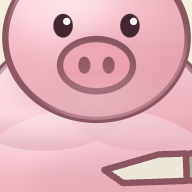
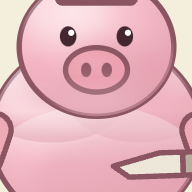
Draw held objects over every costume layer, and make the pistol a pistol
Held was drawn between the arms and the costume, so a lapel, a collar or
the ninja's scabbard crossed in front of whatever was being carried — it
read as neither worn nor held. It's now the last thing drawn. Nothing
crops it any more, which is why everything in Held already sits below
the chin.

The grip was 14 along the arm from its pivot, which is the forearm; the
hand is at 17, on the trotter's centre line rather than its inner edge.
Every object moves with it, so they're all carried in the hand now.

The pistol was a dark oblong with a lump on it. Side-on it has a slide,
a raked grip, a trigger guard and a front sight, all readable at once,
which is the only angle at which it looks like what it is. The torch and
the fishing rod are shortened to stay clear of the chin now that the
head no longer covers them.

The app icon is pulled back further again.

diff --git a/frontend/components/pigs/Held.tsx b/frontend/components/pigs/Held.tsx
@@ -39,9 +39,13 @@ export default function Held({ item, armX }: { item: string; armX: number }) {
 
   // The hand. Same constants as the arm rotation in PigAvatar, so the grip
   // follows the trotter across the whole ladder.
+  // The arm is a rounded 13x24 rect pivoting at (65 + armX - 2.5, 77), so the
+  // hand — its far end — is 17 along from the pivot, swung out by the splay.
+  // Anchoring an object anywhere shorter than that leaves it gripped by the
+  // forearm.
   const splay = (Math.max(0, (armX - 20) * 0.9) * Math.PI) / 180;
-  const gx = 65 + armX - 7 + 14 * Math.sin(splay);
-  const gy = 77 + 14 * Math.cos(splay);
+  const gx = 65 + armX - 4 + 17 * Math.sin(splay);
+  const gy = 77 + 17 * Math.cos(splay);
   // In over the belly — where an upright object has to stand to be seen.
   const ix = gx - 13;
 
@@ -86,14 +90,20 @@ export default function Held({ item, armX }: { item: string; armX: number }) {
 
     case "pistol":
       return (
-        <g {...s} transform={`rotate(-58 ${gx} ${gy})`}>
-          <rect x={gx - 4} y={gy - 26} width="9" height="21" rx="2" fill={STEEL} />
+        // Side-on and level. Pointed up it's a dark oblong with a lump on it;
+        // it only reads as a pistol from the side, where the slide, the guard
+        // and the raked grip are all visible at once.
+        <g {...s} transform={`rotate(-7 ${gx} ${gy})`}>
+          <rect x={gx - 27} y={gy - 15} width="35" height="10" rx="2" fill={INK} />
+          <rect x={gx - 25} y={gy - 18} width="3.5" height="3.5" fill={INK} />
+          <path d={`M ${gx + 6} ${gy - 15} l 5 -4 l 0 4 Z`} fill={INK} />
+          <rect x={gx - 13} y={gy - 6} width="21" height="5" rx="1.5" fill={INK} />
           <path
-            d={`M ${gx - 4.5} ${gy - 7} L ${gx + 5} ${gy - 7} L ${gx + 2.5} ${gy + 10} L ${gx - 6.5} ${gy + 10} Z`}
+            d={`M ${gx - 2} ${gy - 5} L ${gx + 8} ${gy - 5} L ${gx + 5} ${gy + 15} L ${gx - 6} ${gy + 15} Z`}
             fill={INK}
           />
-          {/* Trigger guard — without it the whole thing reads as a spanner. */}
-          <path d={`M ${gx - 4.5} ${gy - 5} q -5 5 0 8 h 5`} fill="none" />
+          <path d={`M ${gx - 3} ${gy - 1} q -6 5 -0.5 9 h 4.5`} fill="none" />
+          <circle cx={gx - 25.5} cy={gy - 10} r="1.7" fill={STEEL} stroke="none" />
         </g>
       );
 
@@ -237,20 +247,20 @@ export default function Held({ item, armX }: { item: string; armX: number }) {
 
     case "torch":
       return (
-        <g {...s} transform={`rotate(-26 ${gx} ${gy})`}>
-          <rect x={gx - 3.5} y={gy - 6} width="8" height="22" rx="2" fill={INK} />
-          <path d={`M ${gx - 8} ${gy - 6} L ${gx + 9} ${gy - 6} L ${gx + 0.5} ${gy - 26} Z`} fill={LEMON} />
-          <path d={`M ${gx - 3} ${gy - 8} L ${gx + 4} ${gy - 8} L ${gx + 0.5} ${gy - 18} Z`} fill={GOLD} stroke="none" />
+        <g {...s} transform={`rotate(-34 ${gx} ${gy})`}>
+          <rect x={gx - 3.5} y={gy - 2} width="8" height="22" rx="2" fill={INK} />
+          <path d={`M ${gx - 8} ${gy - 2} L ${gx + 9} ${gy - 2} L ${gx + 0.5} ${gy - 21} Z`} fill={LEMON} />
+          <path d={`M ${gx - 3} ${gy - 4} L ${gx + 4} ${gy - 4} L ${gx + 0.5} ${gy - 14} Z`} fill={GOLD} stroke="none" />
         </g>
       );
 
     case "fishingrod":
       return (
-        <g {...s} transform={`rotate(-38 ${gx} ${gy})`}>
-          <rect x={gx - 2} y={gy - 34} width="4.5" height="46" rx="2" fill={RUST} />
-          <circle cx={gx + 0.5} cy={gy + 2} r="4.5" fill={STEEL} />
-          <path d={`M ${gx} ${gy - 34} q 15 7 11 21`} fill="none" strokeWidth="1.4" />
-          <path d={`M ${gx + 11} ${gy - 13} l 0 5`} strokeWidth="1.4" />
+        <g {...s} transform={`rotate(-48 ${gx} ${gy})`}>
+          <rect x={gx - 2} y={gy - 24} width="4.5" height="38" rx="2" fill={RUST} />
+          <circle cx={gx + 0.5} cy={gy + 4} r="4.5" fill={STEEL} />
+          <path d={`M ${gx} ${gy - 24} q 14 6 10 19`} fill="none" strokeWidth="1.4" />
+          <path d={`M ${gx + 10} ${gy - 5} l 0 5`} strokeWidth="1.4" />
         </g>
       );
 

diff --git a/frontend/components/pigs/PigAvatar.tsx b/frontend/components/pigs/PigAvatar.tsx
@@ -377,13 +377,6 @@ export default function PigAvatar({
         })}
       </g>
 
-      {/* Whatever they're holding — drawn after the arms so it sits in the
-          trotter rather than behind it. `holding` is the prop the logo and
-          sign-in pig use; otherwise it comes from the saved avatar. */}
-      {(holding ?? (cfg.held !== "none" ? cfg.held : null)) && (
-        <Held item={(holding ?? cfg.held) as string} armX={armX} />
-      )}
-
       {dress.overArms && <g transform={bodyT}>{dress.overArms}</g>}
       {dress.behindHead && <g transform={headT}>{dress.behindHead}</g>}
 
@@ -457,6 +450,17 @@ export default function PigAvatar({
       {specs && <g transform={headT}>{specs}</g>}
       <Hat hat={cfg.hat} cx={65} topY={48 - headRy - 4} w={headRx} outline={OUTLINE} />
       {dress.front && <g transform={bodyT}>{dress.front}</g>}
+
+      {/* Whatever they're holding, drawn last of all: in the trotter rather
+          than behind it, and over every layer of costume — a lapel or a
+          scabbard crossing in front of the thing being held is the one way to
+          make it read as neither worn nor carried. Everything in Held is drawn
+          below the chin for the same reason, since nothing crops it now.
+          `holding` is the prop the logo and sign-in pig use; otherwise it comes
+          from the saved avatar. */}
+      {(holding ?? (cfg.held !== "none" ? cfg.held : null)) && (
+        <Held item={(holding ?? cfg.held) as string} armX={armX} />
+      )}
 
       {cfg.companion !== "none" && (
         <g transform={companionTransform(w)}>{companion(cfg.companion, uid, cfg.truffle)}</g>
